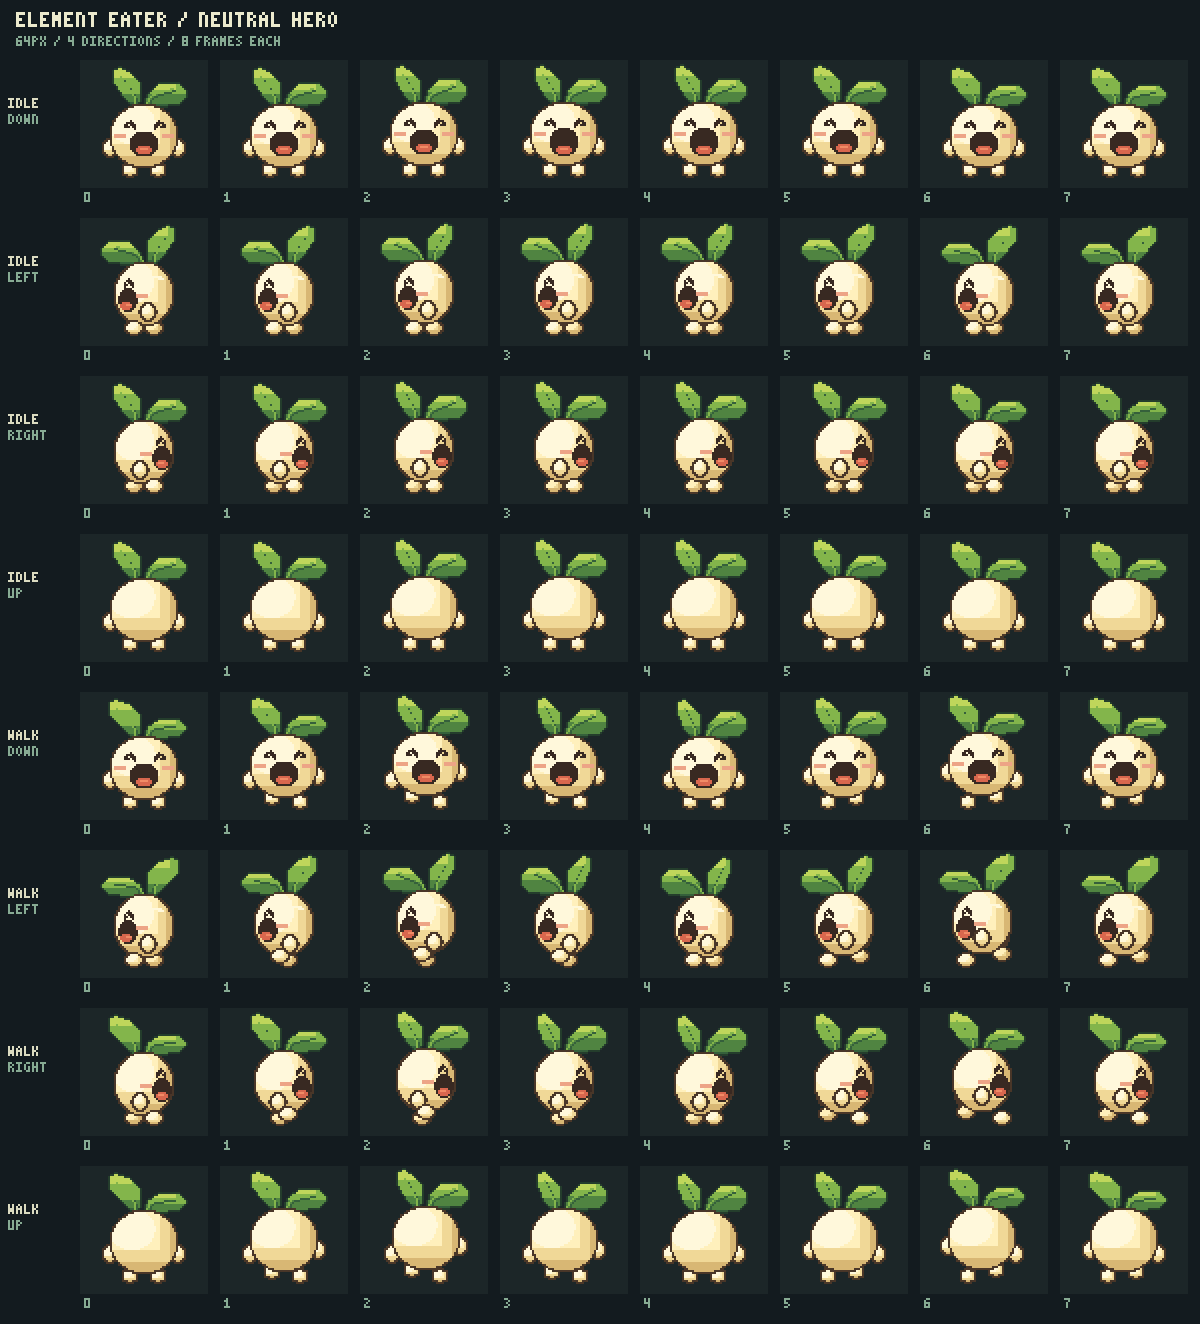
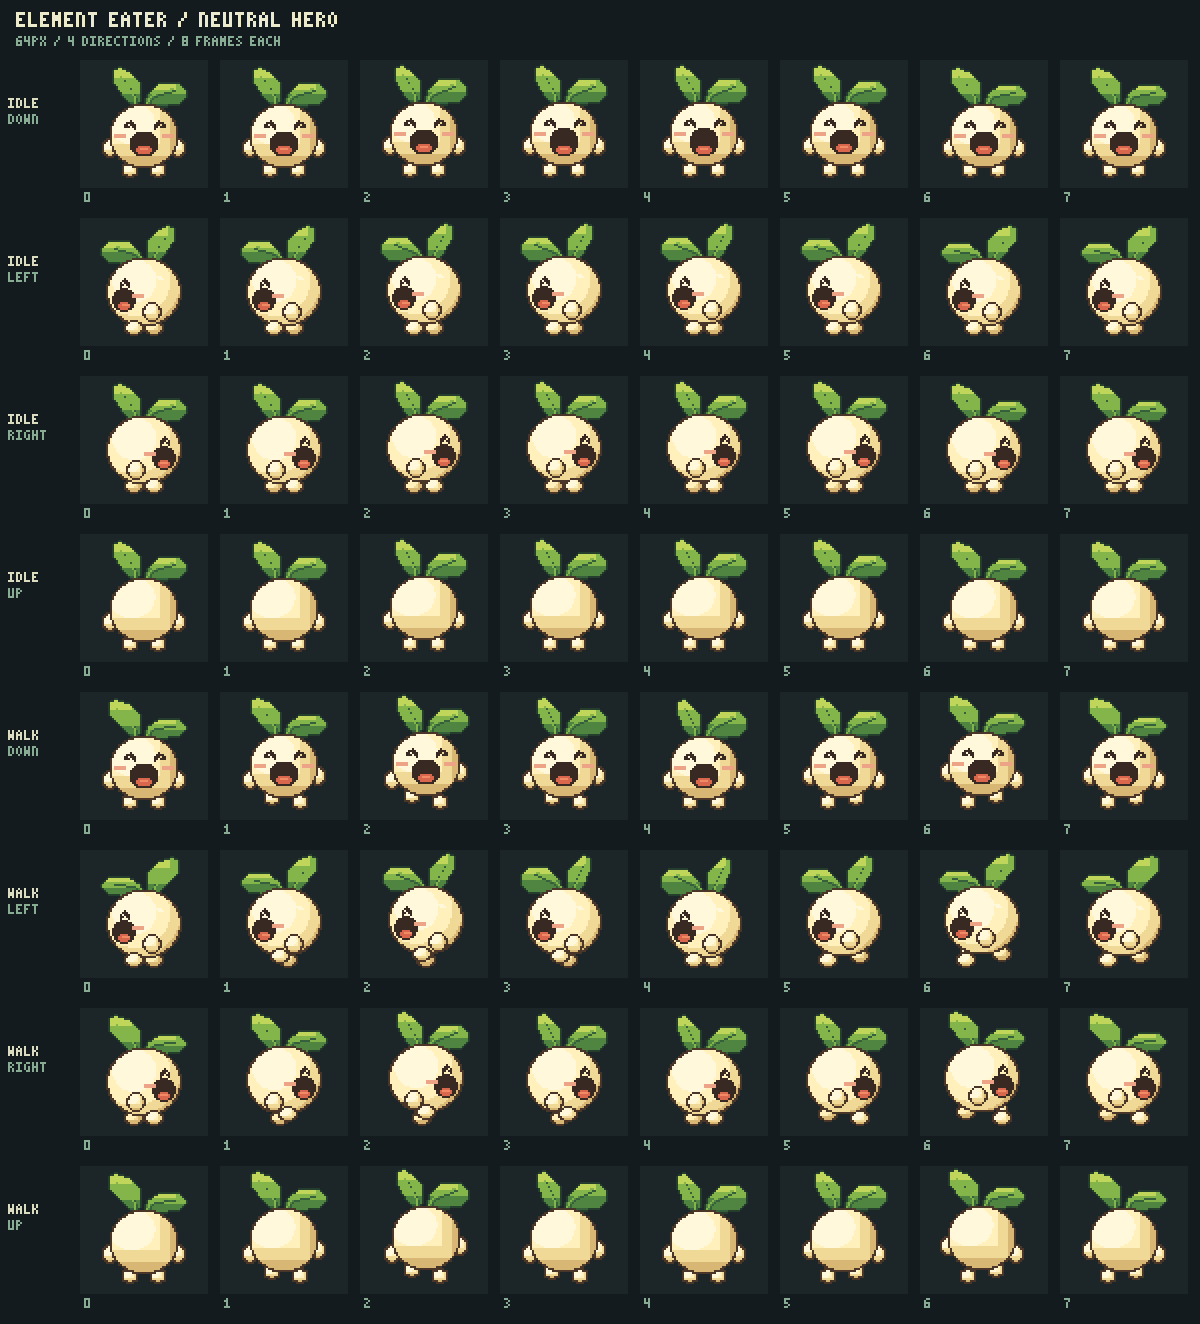
Round out hero side views and refresh animation previews

diff --git a/outputs/previews/hero-neutral/hero-neutral-preview.html b/outputs/previews/hero-neutral/hero-neutral-preview.html
@@ -13,7 +13,7 @@ small{color:#9bb59e}h2{font-size:18px;margin:28px 0 12px}@media(max-width:620px)
 <section id="animations"></section><p><small>대기: 방향마다 8프레임 · 4fps / 걷기: 방향마다 8프레임 · 10fps<br>투명 PNG 원본에는 배경과 표시선이 없습니다. 게임 연동 전 에셋 미리보기입니다.</small></p></main>
 <script>
 const directions=['아래 · 정면','왼쪽','오른쪽','위 · 뒷면'];
[2 lines of base64/hex data omitted]
 const views=[];let running=true,elapsed=0,last=performance.now();
 for(const state of ['idle','walk']){
  const section=document.createElement('section'),heading=document.createElement('h2'),grid=document.createElement('div');

diff --git a/PROJECT_CONTEXT.md b/PROJECT_CONTEXT.md
@@ -37,6 +37,8 @@
 
 ## 다음 작업
 
+주인공 옆모습은 사용자가 납작하다고 피드백해 몸통 폭을 넓히고 둥근 체형과 곡선 명암으로 보정했습니다. 앞으로 원소별 외형을 만들 때도 이 체형을 기준으로 맞춥니다.
+
 이 PC에 pixelfx 개인 Codex 스킬과 프로젝트 옆의 본체 저장소를 설치했습니다. 불꽃 효과의 PNG·JSON 내보내기와 자체 검사를 확인했으며, 게임에 효과를 연동한 상태는 아닙니다. [pixelfx 사용 안내](docs/guides/PIXELFX_USAGE.md)를 참고합니다. 개인 스킬과 본체는 게임 저장소에 포함하지 않습니다.
 
 사용자가 게임 구현을 요청하면 테스트 방 하나에서 이동, E 섭취와 원소·외형 교체, 상성 기본 공격부터 구현합니다. 다섯 고유 능력과 먹이 재생성을 붙인 다음 일반 적 2종, 환경 퍼즐, 방 전환과 원소 변환 보스를 연결합니다. [개발 작업 목록](docs/development/ROADMAP.md)을 참고합니다.

diff --git a/assets/sprites/hero/neutral/README.md b/assets/sprites/hero/neutral/README.md
@@ -2,6 +2,8 @@
 
 2026년 11월 3일, 사용자의 요청으로 기존 이미지 생성 걷기 시트를 **pixelfx로 직접 그린 픽셀 애니메이션**으로 교체했습니다. 아이보리 몸, 두 초록 잎 귀, 웃는 눈과 큰 입, 작은 팔다리를 유지합니다. 걷기의 첫 장을 대기로 쓰던 방식에서 대기 전용 애니메이션을 분리했습니다.
 
+사용자의 옆모습 피드백을 반영해 좌우 몸통의 가로 지름을 31px에서 38px로 넓히고 세로 비율과 곡선 명암, 얼굴·팔·다리 연결을 보정했습니다. 좌우 대기·걷기에 모두 반영했으며 [수정 전후 비교](../../../../outputs/previews/hero-neutral/hero-neutral-side-before-after.png)에서 확인할 수 있습니다.
+
 | 파일 | 구성 | 재생 속도 |
 | --- | --- | --- |
 | [hero-neutral-idle.png](hero-neutral-idle.png) · [JSON](hero-neutral-idle.json) | 4방향 × 대기 8프레임, 숨쉬기와 잎 흔들림 | 4fps, 2초 반복 |

diff --git a/docs/development/ROADMAP.md b/docs/development/ROADMAP.md
@@ -14,6 +14,7 @@
 - [x] 약점 일치만 허용하는 1대1 순환 상성 확정
 - [x] 기기 간 작업을 위한 기획 문서 정리
 - [x] 무속성 주인공을 pixelfx 4방향 대기·걷기 시트로 교체, 각 방향 8프레임과 공통 기준점 JSON·원본 코드·미리보기 준비
+- [x] 사용자 피드백에 맞춰 좌우 대기·걷기의 몸통 볼륨과 곡선 명암 보정
 - [x] 최신 PPT에 맞춰 환경 퍼즐과 10개 방·보스 기획 문서 정리
 - [x] 파일을 문서·이미지·제작 기록·발표 결과물로 분류
 - [x] pixelfx Codex 스킬과 본체 설치, PNG·JSON 출력 및 자체 검사 확인
